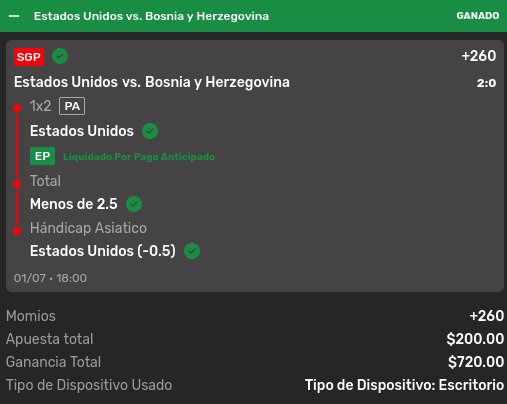
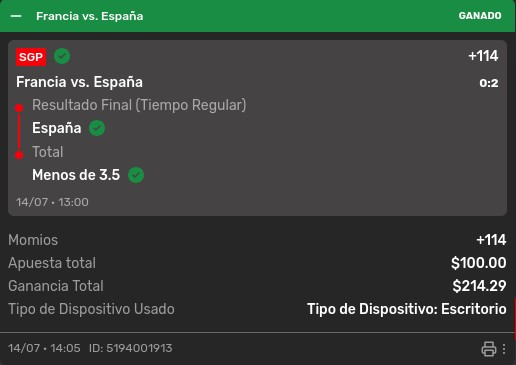
fix: refactorizacion

Changed region(s): [[0.0, 0.0, 1.0, 0.9945]]

diff --git a/README.md b/README.md
@@ -8,15 +8,15 @@
 
 Using the [**international_results**](https://github.com/martj42/international_results) dataset, the system estimates each national team's offensive and defensive strength through a Dixon-Coles model. With those estimates, two expected-goals approaches are trained:
 
-- A Bayesian MCMC model (PyMC + NUTS)
+- A Bayesian MCMC model 
 - An XGBoost Tweedie regression
 
-Expected goals are converted into a joint scoreline matrix using **Negative Binomial distributions**. The resulting matrix is used to compute the final 1X2 probabilities. The terminal UI lets you compare both models side by side.
+Expected goals are converted into a joint scoreline matrix using **Negative Binomial distributions**. The resulting matrix is used to compute the final 1X2 probabilities.
 
 ## Requirements
 
 - Linux, macOS or Windows with a terminal
-- [Miniconda](https://docs.conda.io/en/latest/miniconda.html)
+- Miniconda
 - git (with submodule support)
 
 ## Installing Miniconda
@@ -33,22 +33,16 @@ This will reload your shell configuration and make the `conda` command available
 
 ## Cloning the repository
 
-The match dataset resides on a git submodule:
+The match dataset resides on a git submodule, clone the repository with:
 
 ```bash
 git clone --recurse-submodules https://github.com/Chigga21/fifa26-predictor.git
 cd fifa26-predictor
 ```
 
-### Initializing the submodule (if you already cloned without it)
-
-```bash
-git submodule update --init --recursive
-```
-
 ### Updating the submodule later
 
-To pull the latest matches from the upstream dataset:
+To pull the latest matches from the upstream dataset, run:
 
 ```bash
 git submodule update --remote data/external/international_results
@@ -70,13 +64,11 @@ With the `fifa26` environment active, launch the interactive terminal UI:
 ```bash
 python fifa26/main.py
 ```
-
-You will see the ASCII logo, the startup menu, arrow-key team selection and the 1X2 forecast for both models.
-
-Disable ANSI colours if your terminal does not support them:
+> [!WARNING]
+> Disable ANSI colours if your terminal does not support them:
 
 ```bash
-NO_COLOR=1 python fifa26/main.py
+NO_COLOR=1 python fifa26/main.py 
 ```
 
 > [!IMPORTANT]
@@ -85,44 +77,16 @@ NO_COLOR=1 python fifa26/main.py
 <table align="center">
   <tr>
     <td align="center">
-      <img src="static/terminal.jpg" alt="Terminal" width="500"/>
+      <img src="static/terminal.jpg" alt="Terminal" width="400"/>
     </td>
-    <td width="10"></td>
+    <td width="2"></td>
     <td align="center">
-      <img src="static/apuesta.jpg" alt="Prediction" width="480"/>
+      <img src="static/apuesta.jpg" alt="Prediction" width="450"/>
     </td>
   </tr>
 </table>
 
 That said, the program has personally produced accurate results on a few occasions. This should be considered anecdotal and not a reliable statistical basis.
-
-## Project structure
-
-```
-fifa26-predictor/
-├── environment.yml          
-├── fifa26/
-│   ├── main.py              
-│   ├── domain.py            
-│   ├── data.py              
-│   ├── models/
-│   │   ├── dixon_coles.py   
-│   │   ├── goals.py        
-│   │   └── score_matrix.py  
-│   ├── pipeline/
-│   │   ├── training.py      
-│   │   └── predictor.py     
-│   └── cli/
-│       ├── ansi.py          
-│       ├── menu.py          
-│       ├── indicator.py     
-│       ├── plots.py         
-│       └── app.py           
-├── scripts/                 
-├── tests/                                      
-├── static/                  
-└── data/external/           
-```
 
 ## Testing
 